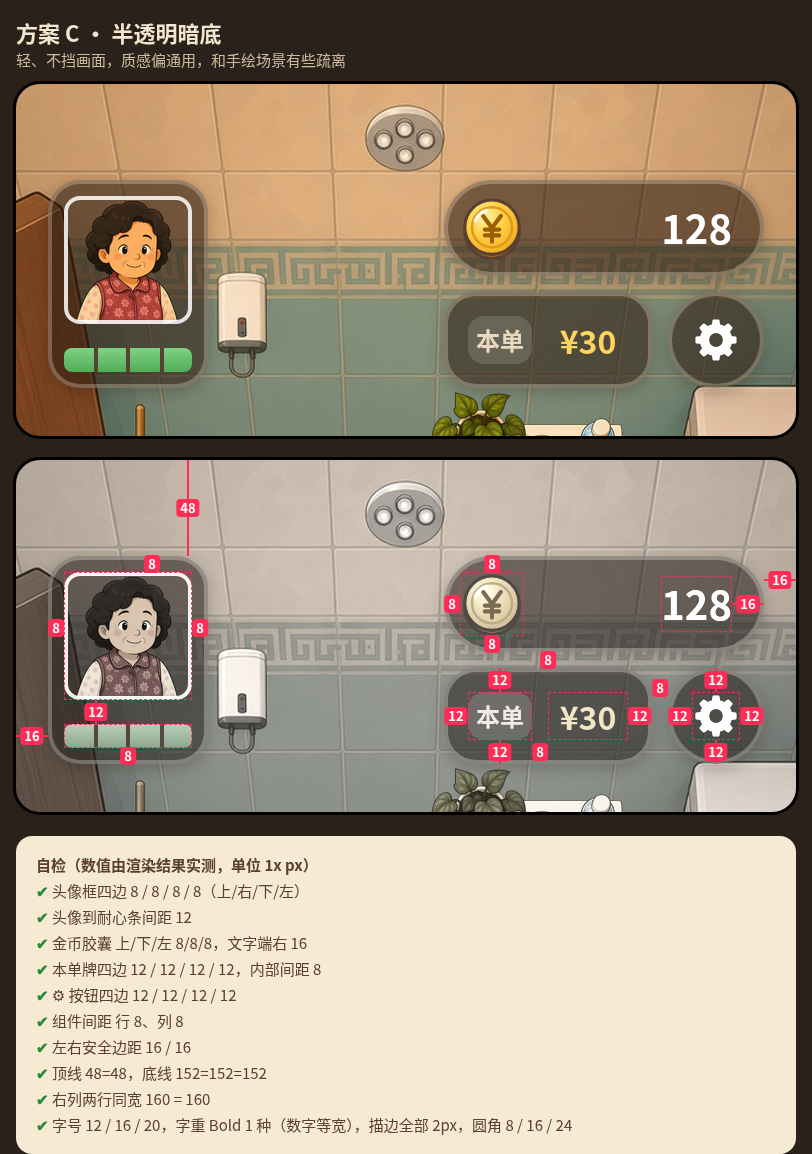
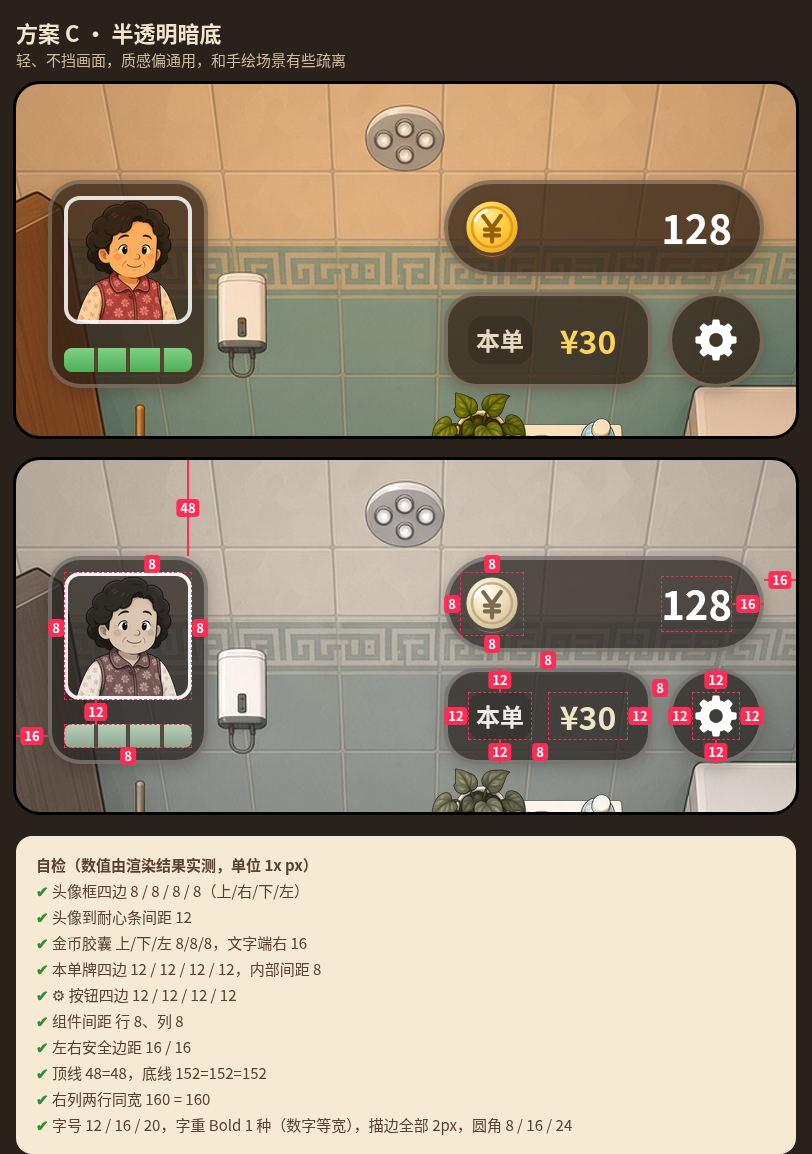
UI: 方案 C 暗底加深到 .75 保证对比度；来电单图改 ¥68；新头像重出基准图

diff --git a/design/ui/hifi/v14/hud_v14_call.html b/design/ui/hifi/v14/hud_v14_call.html
@@ -33,18 +33,20 @@
 .lab{position:absolute;z-index:51;background:#FF2D55;color:#fff;font:700 13px/18px "Noto Sans CJK SC";padding:0 4px;border-radius:4px;transform:translate(-50%,-50%);white-space:nowrap}
 .box{position:absolute;z-index:49;border:1.5px dashed rgba(255,45,85,.9)}
 .chk{background:#F6EAD3;border-radius:16px;padding:16px 20px;font-size:15px;line-height:26px}.chk b{color:#2E8B3A}.chk .x{color:#D9413A}
-.pat i.lock{background:repeating-linear-gradient(135deg,#EFE4D1 0 3px,#D9C9AE 3px 5px)}.pat i.off{background:#E5D6BD}</style></head><body><div class="row"><div class="col oA"><p class="cap">来电单开局：3 格 + 第 4 格锁住<small>o2 徐哥 · 金币 30 · 本单 ¥45 · 方案 A</small></p><div class="zoom"><div class="ph"><img class="L" src="../../../../assets/scene/bg_bathroom_base@2x.png" style="left:0px;top:0px;width:390.0px;height:780.0px"><img class="L" src="../../../../assets/scene/home_wang_windowsill@2x.png" style="left:205px;top:154px;width:100.0px;height:61.0px"><img class="L" src="../../../../assets/scene/home_wang_washboard@2x.png" style="left:284px;top:323px;width:69.0px;height:81.0px"><img class="L" src="../../../../assets/scene/toilet_tank@2x.png" style="left:99.5px;top:216.0px;width:192.0px;height:110.0px"><img class="L" src="../../../../assets/scene/toilet_lid_up@2x.png" style="left:106.94999999999999px;top:251.0px;width:176.5px;height:146.0px"><img class="L" src="../../../../assets/scene/home_wang_seatcover@2x.png" style="left:100.05000000000001px;top:253.5px;width:183.5px;height:128.0px"><img class="L" src="../../../../assets/scene/toilet_bowl@2x.png" style="left:95.55000000000001px;top:389.55px;width:200.5px;height:236.5px"><img class="L" src="../../../../assets/scene/toilet_bowl_inner@2x.png" style="left:95.55000000000001px;top:389.55px;width:200.5px;height:236.5px"><img class="L" src="../../../../assets/scene/water_surface_normal@2x.png" style="left:95.55000000000001px;top:389.55px;width:200.5px;height:236.5px"><img class="L" src="../../../../assets/scene/clog_paper@2x.png" style="left:170.95px;top:494.0px;width:50.5px;height:48.0px"><img class="L" src="../../../../assets/scene/toilet_flushbtn_idle@2x.png" style="left:179.0px;top:225.5px;width:32.0px;height:29.0px"><img class="L" src="../../../../assets/scene/scene_bucket_empty@2x.png" style="left:294.5px;top:467.0px;width:71.0px;height:85.0px"><div class="who"><div class="av" style="background-image:url(../../../../assets/characters/avatar_xiao_xu_p1@2x.png)"></div><div class="pat"><i class=""></i><i class=""></i><i class=""></i><i class="lock"></i></div></div>
+.pat i.lock{background:repeating-linear-gradient(135deg,#EFE4D1 0 3px,#D9C9AE 3px 5px)}.pat i.off{background:#E5D6BD}
+.oC .who,.oC .cc,.oC .tg,.oC .gr{border-color:rgba(255,240,215,.28);background:rgba(48,32,20,.75);box-shadow:0 2px 8px rgba(30,20,10,.25)}
+.oC .num{color:#fff}.oC .lb{background:rgba(20,12,6,.2);color:#E9D9C0}.oC .vv{color:#FFD45E}.oC .av{box-shadow:inset 0 0 0 2px rgba(255,255,255,.85)}</style></head><body><div class="row"><div class="col oC"><p class="cap">来电单开局：3 格 + 第 4 格锁住<small>o2 徐哥 · 金币 30 · 本单 ¥68 · 方案 C</small></p><div class="zoom"><div class="ph"><img class="L" src="../../../../assets/scene/bg_bathroom_base@2x.png" style="left:0px;top:0px;width:390.0px;height:780.0px"><img class="L" src="../../../../assets/scene/home_wang_windowsill@2x.png" style="left:205px;top:154px;width:100.0px;height:61.0px"><img class="L" src="../../../../assets/scene/home_wang_washboard@2x.png" style="left:284px;top:323px;width:69.0px;height:81.0px"><img class="L" src="../../../../assets/scene/toilet_tank@2x.png" style="left:99.5px;top:216.0px;width:192.0px;height:110.0px"><img class="L" src="../../../../assets/scene/toilet_lid_up@2x.png" style="left:106.94999999999999px;top:251.0px;width:176.5px;height:146.0px"><img class="L" src="../../../../assets/scene/home_wang_seatcover@2x.png" style="left:100.05000000000001px;top:253.5px;width:183.5px;height:128.0px"><img class="L" src="../../../../assets/scene/toilet_bowl@2x.png" style="left:95.55000000000001px;top:389.55px;width:200.5px;height:236.5px"><img class="L" src="../../../../assets/scene/toilet_bowl_inner@2x.png" style="left:95.55000000000001px;top:389.55px;width:200.5px;height:236.5px"><img class="L" src="../../../../assets/scene/water_surface_normal@2x.png" style="left:95.55000000000001px;top:389.55px;width:200.5px;height:236.5px"><img class="L" src="../../../../assets/scene/clog_paper@2x.png" style="left:170.95px;top:494.0px;width:50.5px;height:48.0px"><img class="L" src="../../../../assets/scene/toilet_flushbtn_idle@2x.png" style="left:179.0px;top:225.5px;width:32.0px;height:29.0px"><img class="L" src="../../../../assets/scene/scene_bucket_empty@2x.png" style="left:294.5px;top:467.0px;width:71.0px;height:85.0px"><div class="who"><div class="av" style="background-image:url(../../../../assets/characters/avatar_xiao_xu_p1@2x.png)"></div><div class="pat"><i class=""></i><i class=""></i><i class=""></i><i class="lock"></i></div></div>
 <div class="cc"><div class="coin"><svg viewBox="0 0 40 40"><defs><radialGradient id="cg" cx="38%" cy="32%" r="75%"><stop offset="0" stop-color="#FFF1A8"/><stop offset=".45" stop-color="#FFD045"/><stop offset="1" stop-color="#F0A81E"/></radialGradient></defs>
 <circle cx="20" cy="22" r="17" fill="#C27A0E" stroke="#5A4030" stroke-width="2"/>
 <circle cx="20" cy="19.5" r="17" fill="url(#cg)" stroke="#5A4030" stroke-width="2"/>
 <circle cx="20" cy="19.5" r="12.5" fill="none" stroke="#E09A1A" stroke-width="1.6"/>
 <path d="M14.5 12.5l5.5 7.5 5.5-7.5M20 20v8.5M15.5 21h9M15.5 24.6h9" fill="none" stroke="#9A5E06" stroke-width="2.6" stroke-linecap="round" stroke-linejoin="round"/>
 <path d="M9.5 15.5a11.5 11.5 0 0 1 7-6.5" fill="none" stroke="#fff" stroke-opacity=".85" stroke-width="2.2" stroke-linecap="round"/></svg></div><span class="num">30</span></div>
-<div class="tg"><span class="lb">本单</span><span class="vv">¥45</span></div><div class="gr"><svg viewBox="0 0 32 32"><path d="M25.24 12.17 L25.81 14.05 L28.91 14.47 L28.91 17.53 L25.81 17.95 L25.24 19.83 L24.31 21.56 L26.21 24.05 L24.05 26.21 L21.56 24.31 L19.83 25.24 L17.95 25.81 L17.53 28.91 L14.47 28.91 L14.05 25.81 L12.17 25.24 L10.44 24.31 L7.95 26.21 L5.79 24.05 L7.69 21.56 L6.76 19.83 L6.19 17.95 L3.09 17.53 L3.09 14.47 L6.19 14.05 L6.76 12.17 L7.69 10.44 L5.79 7.95 L7.95 5.79 L10.44 7.69 L12.17 6.76 L14.05 6.19 L14.47 3.09 L17.53 3.09 L17.95 6.19 L19.83 6.76 L21.56 7.69 L24.05 5.79 L26.21 7.95 L24.31 10.44Z" fill="#5A4030" stroke="#5A4030" stroke-width="1.6" stroke-linejoin="round"/><circle cx="16" cy="16" r="4.6" fill="#FBF1DD"/></svg></div></div></div></div><div class="col oA"><p class="cap">来电单掉 1 格：剩 2 格<small>o2 徐哥 · 金币 30 · 本单 ¥45 · 方案 A</small></p><div class="zoom"><div class="ph"><img class="L" src="../../../../assets/scene/bg_bathroom_base@2x.png" style="left:0px;top:0px;width:390.0px;height:780.0px"><img class="L" src="../../../../assets/scene/home_wang_windowsill@2x.png" style="left:205px;top:154px;width:100.0px;height:61.0px"><img class="L" src="../../../../assets/scene/home_wang_washboard@2x.png" style="left:284px;top:323px;width:69.0px;height:81.0px"><img class="L" src="../../../../assets/scene/toilet_tank@2x.png" style="left:99.5px;top:216.0px;width:192.0px;height:110.0px"><img class="L" src="../../../../assets/scene/toilet_lid_up@2x.png" style="left:106.94999999999999px;top:251.0px;width:176.5px;height:146.0px"><img class="L" src="../../../../assets/scene/home_wang_seatcover@2x.png" style="left:100.05000000000001px;top:253.5px;width:183.5px;height:128.0px"><img class="L" src="../../../../assets/scene/toilet_bowl@2x.png" style="left:95.55000000000001px;top:389.55px;width:200.5px;height:236.5px"><img class="L" src="../../../../assets/scene/toilet_bowl_inner@2x.png" style="left:95.55000000000001px;top:389.55px;width:200.5px;height:236.5px"><img class="L" src="../../../../assets/scene/water_surface_normal@2x.png" style="left:95.55000000000001px;top:389.55px;width:200.5px;height:236.5px"><img class="L" src="../../../../assets/scene/clog_paper@2x.png" style="left:170.95px;top:494.0px;width:50.5px;height:48.0px"><img class="L" src="../../../../assets/scene/toilet_flushbtn_idle@2x.png" style="left:179.0px;top:225.5px;width:32.0px;height:29.0px"><img class="L" src="../../../../assets/scene/scene_bucket_empty@2x.png" style="left:294.5px;top:467.0px;width:71.0px;height:85.0px"><div class="who"><div class="av" style="background-image:url(../../../../assets/characters/avatar_xiao_xu_p2@2x.png)"></div><div class="pat"><i class=""></i><i class=""></i><i class="off"></i><i class="lock"></i></div></div>
+<div class="tg"><span class="lb">本单</span><span class="vv">¥68</span></div><div class="gr"><svg viewBox="0 0 32 32"><defs><mask id="gm"><rect width="32" height="32" fill="#fff"/><circle cx="16" cy="16" r="4.6" fill="#000"/></mask></defs><g mask="url(#gm)" opacity="1"><path d="M25.24 12.17 L25.81 14.05 L28.91 14.47 L28.91 17.53 L25.81 17.95 L25.24 19.83 L24.31 21.56 L26.21 24.05 L24.05 26.21 L21.56 24.31 L19.83 25.24 L17.95 25.81 L17.53 28.91 L14.47 28.91 L14.05 25.81 L12.17 25.24 L10.44 24.31 L7.95 26.21 L5.79 24.05 L7.69 21.56 L6.76 19.83 L6.19 17.95 L3.09 17.53 L3.09 14.47 L6.19 14.05 L6.76 12.17 L7.69 10.44 L5.79 7.95 L7.95 5.79 L10.44 7.69 L12.17 6.76 L14.05 6.19 L14.47 3.09 L17.53 3.09 L17.95 6.19 L19.83 6.76 L21.56 7.69 L24.05 5.79 L26.21 7.95 L24.31 10.44Z" fill="#FFFFFF" stroke="#FFFFFF" stroke-width="1.6" stroke-linejoin="round"/></g></svg></div></div></div></div><div class="col oC"><p class="cap">来电单掉 1 格：剩 2 格<small>o2 徐哥 · 金币 30 · 本单 ¥68 · 方案 C</small></p><div class="zoom"><div class="ph"><img class="L" src="../../../../assets/scene/bg_bathroom_base@2x.png" style="left:0px;top:0px;width:390.0px;height:780.0px"><img class="L" src="../../../../assets/scene/home_wang_windowsill@2x.png" style="left:205px;top:154px;width:100.0px;height:61.0px"><img class="L" src="../../../../assets/scene/home_wang_washboard@2x.png" style="left:284px;top:323px;width:69.0px;height:81.0px"><img class="L" src="../../../../assets/scene/toilet_tank@2x.png" style="left:99.5px;top:216.0px;width:192.0px;height:110.0px"><img class="L" src="../../../../assets/scene/toilet_lid_up@2x.png" style="left:106.94999999999999px;top:251.0px;width:176.5px;height:146.0px"><img class="L" src="../../../../assets/scene/home_wang_seatcover@2x.png" style="left:100.05000000000001px;top:253.5px;width:183.5px;height:128.0px"><img class="L" src="../../../../assets/scene/toilet_bowl@2x.png" style="left:95.55000000000001px;top:389.55px;width:200.5px;height:236.5px"><img class="L" src="../../../../assets/scene/toilet_bowl_inner@2x.png" style="left:95.55000000000001px;top:389.55px;width:200.5px;height:236.5px"><img class="L" src="../../../../assets/scene/water_surface_normal@2x.png" style="left:95.55000000000001px;top:389.55px;width:200.5px;height:236.5px"><img class="L" src="../../../../assets/scene/clog_paper@2x.png" style="left:170.95px;top:494.0px;width:50.5px;height:48.0px"><img class="L" src="../../../../assets/scene/toilet_flushbtn_idle@2x.png" style="left:179.0px;top:225.5px;width:32.0px;height:29.0px"><img class="L" src="../../../../assets/scene/scene_bucket_empty@2x.png" style="left:294.5px;top:467.0px;width:71.0px;height:85.0px"><div class="who"><div class="av" style="background-image:url(../../../../assets/characters/avatar_xiao_xu_p2@2x.png)"></div><div class="pat"><i class=""></i><i class=""></i><i class="off"></i><i class="lock"></i></div></div>
 <div class="cc"><div class="coin"><svg viewBox="0 0 40 40"><defs><radialGradient id="cg" cx="38%" cy="32%" r="75%"><stop offset="0" stop-color="#FFF1A8"/><stop offset=".45" stop-color="#FFD045"/><stop offset="1" stop-color="#F0A81E"/></radialGradient></defs>
 <circle cx="20" cy="22" r="17" fill="#C27A0E" stroke="#5A4030" stroke-width="2"/>
 <circle cx="20" cy="19.5" r="17" fill="url(#cg)" stroke="#5A4030" stroke-width="2"/>
 <circle cx="20" cy="19.5" r="12.5" fill="none" stroke="#E09A1A" stroke-width="1.6"/>
 <path d="M14.5 12.5l5.5 7.5 5.5-7.5M20 20v8.5M15.5 21h9M15.5 24.6h9" fill="none" stroke="#9A5E06" stroke-width="2.6" stroke-linecap="round" stroke-linejoin="round"/>
 <path d="M9.5 15.5a11.5 11.5 0 0 1 7-6.5" fill="none" stroke="#fff" stroke-opacity=".85" stroke-width="2.2" stroke-linecap="round"/></svg></div><span class="num">30</span></div>
-<div class="tg"><span class="lb">本单</span><span class="vv">¥45</span></div><div class="gr"><svg viewBox="0 0 32 32"><path d="M25.24 12.17 L25.81 14.05 L28.91 14.47 L28.91 17.53 L25.81 17.95 L25.24 19.83 L24.31 21.56 L26.21 24.05 L24.05 26.21 L21.56 24.31 L19.83 25.24 L17.95 25.81 L17.53 28.91 L14.47 28.91 L14.05 25.81 L12.17 25.24 L10.44 24.31 L7.95 26.21 L5.79 24.05 L7.69 21.56 L6.76 19.83 L6.19 17.95 L3.09 17.53 L3.09 14.47 L6.19 14.05 L6.76 12.17 L7.69 10.44 L5.79 7.95 L7.95 5.79 L10.44 7.69 L12.17 6.76 L14.05 6.19 L14.47 3.09 L17.53 3.09 L17.95 6.19 L19.83 6.76 L21.56 7.69 L24.05 5.79 L26.21 7.95 L24.31 10.44Z" fill="#5A4030" stroke="#5A4030" stroke-width="1.6" stroke-linejoin="round"/><circle cx="16" cy="16" r="4.6" fill="#FBF1DD"/></svg></div></div></div></div></div></body></html>
+<div class="tg"><span class="lb">本单</span><span class="vv">¥68</span></div><div class="gr"><svg viewBox="0 0 32 32"><defs><mask id="gm"><rect width="32" height="32" fill="#fff"/><circle cx="16" cy="16" r="4.6" fill="#000"/></mask></defs><g mask="url(#gm)" opacity="1"><path d="M25.24 12.17 L25.81 14.05 L28.91 14.47 L28.91 17.53 L25.81 17.95 L25.24 19.83 L24.31 21.56 L26.21 24.05 L24.05 26.21 L21.56 24.31 L19.83 25.24 L17.95 25.81 L17.53 28.91 L14.47 28.91 L14.05 25.81 L12.17 25.24 L10.44 24.31 L7.95 26.21 L5.79 24.05 L7.69 21.56 L6.76 19.83 L6.19 17.95 L3.09 17.53 L3.09 14.47 L6.19 14.05 L6.76 12.17 L7.69 10.44 L5.79 7.95 L7.95 5.79 L10.44 7.69 L12.17 6.76 L14.05 6.19 L14.47 3.09 L17.53 3.09 L17.95 6.19 L19.83 6.76 L21.56 7.69 L24.05 5.79 L26.21 7.95 L24.31 10.44Z" fill="#FFFFFF" stroke="#FFFFFF" stroke-width="1.6" stroke-linejoin="round"/></g></svg></div></div></div></div></div></body></html>

diff --git a/design/ui/hifi/v14/_hifiC_o1.html b/design/ui/hifi/v14/_hifiC_o1.html
@@ -26,8 +26,8 @@
 .oB .num{color:#FFE9A8;text-shadow:0 1px 0 rgba(0,0,0,.35)}.oB .lb{background:#4A3222;color:#E7CFA9}.oB .vv{color:#FFD45E;text-shadow:0 1px 0 rgba(0,0,0,.35)}
 .oB .av{box-shadow:inset 0 0 0 2px #FFF3DA}
 /* C */
-.oC .who,.oC .cc,.oC .tg,.oC .gr{border-color:rgba(255,240,215,.28);background:rgba(48,32,20,.6);box-shadow:0 2px 8px rgba(30,20,10,.25)}
-.oC .num{color:#fff}.oC .lb{background:rgba(255,255,255,.14);color:#E9D9C0}.oC .vv{color:#FFD45E}.oC .av{box-shadow:inset 0 0 0 2px rgba(255,255,255,.85)}
+.oC .who,.oC .cc,.oC .tg,.oC .gr{border-color:rgba(255,240,215,.28);background:rgba(48,32,20,.75);box-shadow:0 2px 8px rgba(30,20,10,.25)}
+.oC .num{color:#fff}.oC .lb{background:rgba(20,12,6,.2);color:#E9D9C0}.oC .vv{color:#FFD45E}.oC .av{box-shadow:inset 0 0 0 2px rgba(255,255,255,.85)}
 /* annotation */
 .mk{position:absolute;z-index:50;background:#FF2D55}.mk.h{height:2px}.mk.v{width:2px}
 .lab{position:absolute;z-index:51;background:#FF2D55;color:#fff;font:700 13px/18px "Noto Sans CJK SC";padding:0 4px;border-radius:4px;transform:translate(-50%,-50%);white-space:nowrap}

diff --git a/design/ui/hifi/v14/hud_v14.html b/design/ui/hifi/v14/hud_v14.html
@@ -26,8 +26,8 @@
 .oB .num{color:#FFE9A8;text-shadow:0 1px 0 rgba(0,0,0,.35)}.oB .lb{background:#4A3222;color:#E7CFA9}.oB .vv{color:#FFD45E;text-shadow:0 1px 0 rgba(0,0,0,.35)}
 .oB .av{box-shadow:inset 0 0 0 2px #FFF3DA}
 /* C */
-.oC .who,.oC .cc,.oC .tg,.oC .gr{border-color:rgba(255,240,215,.28);background:rgba(48,32,20,.6);box-shadow:0 2px 8px rgba(30,20,10,.25)}
-.oC .num{color:#fff}.oC .lb{background:rgba(255,255,255,.14);color:#E9D9C0}.oC .vv{color:#FFD45E}.oC .av{box-shadow:inset 0 0 0 2px rgba(255,255,255,.85)}
+.oC .who,.oC .cc,.oC .tg,.oC .gr{border-color:rgba(255,240,215,.28);background:rgba(48,32,20,.75);box-shadow:0 2px 8px rgba(30,20,10,.25)}
+.oC .num{color:#fff}.oC .lb{background:rgba(20,12,6,.2);color:#E9D9C0}.oC .vv{color:#FFD45E}.oC .av{box-shadow:inset 0 0 0 2px rgba(255,255,255,.85)}
 /* annotation */
 .mk{position:absolute;z-index:50;background:#FF2D55}.mk.h{height:2px}.mk.v{width:2px}
 .lab{position:absolute;z-index:51;background:#FF2D55;color:#fff;font:700 13px/18px "Noto Sans CJK SC";padding:0 4px;border-radius:4px;transform:translate(-50%,-50%);white-space:nowrap}

diff --git a/design/ui/hifi/v14/slices.py b/design/ui/hifi/v14/slices.py
@@ -2,7 +2,7 @@ import subprocess,json,os
 from icons import *
 OUT='../../../../assets/ui/v14/'
 M=12
-BG='rgba(48,32,20,.6)';BD='2px solid rgba(255,240,215,.28)';SH='0 2px 8px rgba(30,20,10,.25)'
+BG='rgba(48,32,20,.75)';BD='2px solid rgba(255,240,215,.28)';SH='0 2px 8px rgba(30,20,10,.25)'
 def box(w,h,r,bg=BG,bd=BD,sh=SH,m=M,inner=''):
     return w+2*m,h+2*m,f'<div style="position:absolute;left:{m}px;top:{m}px;width:{w}px;height:{h}px;border-radius:{r}px;background:{bg};border:{bd};box-shadow:{sh};box-sizing:border-box">{inner}</div>'
 S={
@@ -10,9 +10,9 @@ S={
  'hud_capsule_c':(box(160,48,24),{'radius':24}),
  'hud_tag_c':(box(104,48,16),{'radius':16}),
  'hud_round_c_normal':(box(48,48,24),{'radius':24}),
- 'hud_round_c_pressed':(box(48,48,24,bg='rgba(48,32,20,.78)',sh='0 1px 4px rgba(30,20,10,.25)'),{'radius':24}),
- 'hud_round_c_disabled':(box(48,48,24,bg='rgba(48,32,20,.35)',bd='2px solid rgba(255,240,215,.14)',sh='none'),{'radius':24}),
- 'hud_chip_c':(box(32,24,8,bg='rgba(255,255,255,.14)',bd='none',sh='none',m=0),{'radius':8}),
+ 'hud_round_c_pressed':(box(48,48,24,bg='rgba(48,32,20,.85)',sh='0 1px 4px rgba(30,20,10,.25)'),{'radius':24}),
+ 'hud_round_c_disabled':(box(48,48,24,bg='rgba(48,32,20,.45)',bd='2px solid rgba(255,240,215,.14)',sh='none'),{'radius':24}),
+ 'hud_chip_c':(box(32,24,8,bg='rgba(20,12,6,.2)',bd='none',sh='none',m=0),{'radius':8}),
  'hud_avatar_ring_c':(box(64,64,8,bg='transparent',bd='none',sh='inset 0 0 0 2px rgba(255,255,255,.85)',m=0),{'radius':8}),
  'icon_coin_32':((32,32,f'<div style="width:32px;height:32px">{COIN}</div>'),None),
  'icon_gear_c_24':((24,24,f'<div style="width:24px;height:24px">{GEARM()}</div>'),None),

diff --git a/design/ui/hifi/v14/build.py b/design/ui/hifi/v14/build.py
@@ -29,8 +29,8 @@ css='''*{box-sizing:border-box;margin:0}body{background:#2b211b;font-family:"Not
 .oB .num{color:#FFE9A8;text-shadow:0 1px 0 rgba(0,0,0,.35)}.oB .lb{background:#4A3222;color:#E7CFA9}.oB .vv{color:#FFD45E;text-shadow:0 1px 0 rgba(0,0,0,.35)}
 .oB .av{box-shadow:inset 0 0 0 2px #FFF3DA}
 /* C */
-.oC .who,.oC .cc,.oC .tg,.oC .gr{border-color:rgba(255,240,215,.28);background:rgba(48,32,20,.6);box-shadow:0 2px 8px rgba(30,20,10,.25)}
-.oC .num{color:#fff}.oC .lb{background:rgba(255,255,255,.14);color:#E9D9C0}.oC .vv{color:#FFD45E}.oC .av{box-shadow:inset 0 0 0 2px rgba(255,255,255,.85)}
+.oC .who,.oC .cc,.oC .tg,.oC .gr{border-color:rgba(255,240,215,.28);background:rgba(48,32,20,.75);box-shadow:0 2px 8px rgba(30,20,10,.25)}
+.oC .num{color:#fff}.oC .lb{background:rgba(20,12,6,.2);color:#E9D9C0}.oC .vv{color:#FFD45E}.oC .av{box-shadow:inset 0 0 0 2px rgba(255,255,255,.85)}
 /* annotation */
 .mk{position:absolute;z-index:50;background:#FF2D55}.mk.h{height:2px}.mk.v{width:2px}
 .lab{position:absolute;z-index:51;background:#FF2D55;color:#fff;font:700 13px/18px "Noto Sans CJK SC";padding:0 4px;border-radius:4px;transform:translate(-50%,-50%);white-space:nowrap}
